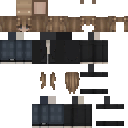
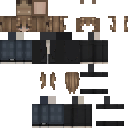
Head depth via cut-outs in the hat layer and shadows on the base layer
Claude-Session: https://claude.ai/code/session_01E8KVnok6Fx7faRrVpDBB9K

diff --git a/minecraft-skin/make_skin.py b/minecraft-skin/make_skin.py
@@ -40,6 +40,8 @@ def fill_rows(g):                                   # replace non-hair / shadow-
         near = sorted((abs(i-ii), ii) for ii in range(w) if ok(g[ii, j]))
         out[i, j] = g[near[0][1], j] if near else (121, 95, 72)
     return out
+def dark(c, f): return tuple(int(v*f) for v in c)
+SHADOW = (50, 38, 32)                               # deep hair shadow seen through gaps in the outer layer
 def vsmooth(g, where):                              # vertical median filter -> long calm strands
     out = dict(g); h = max(j for _, j in g)+1
     for (i, j), c in g.items():
@@ -83,20 +85,31 @@ def build(slim=True):
             c = face[i, j]
             if not is_hair(c) and (c[0] < 120 or c[0] - c[2] < 25): face[i, j] = face[i, 13]
     put(8, 8, face)                                                        # face + hair (base layer)
-    put(40, 8, face, keep=lambda i, j, c: lit(_hat8[i//2, j//2]))          # fringe and locks stand out on the hat layer
+    put(40, 8, face, keep=lambda i, j, c: lit(_hat8[i//2, j//2]) and j > 0)  # fringe and locks stand out on the hat layer
     bk = fill_rows(back(262, 374, 694, 806, 16, 16)); bk8 = back(262, 374, 694, 806, 8, 8)
     for (i, j) in list(bk):
         blk = bk8[i//2, j//2]
         if (j < 6 or i < 4 or i > 11) and is_hair(blk) and blk[0] >= 72: bk[i, j] = blk
     bk = vsmooth(bk, lambda i, j: j >= 6 and 4 <= i <= 11)
-    put(24, 8, bk)
-    put(56, 8, bk, keep=lambda i, j, c: (j < 6 or i < 4 or i > 11) and not (j == 0 and 4 <= i <= 11))
+    outer = lambda i, j: (i < 4 or i > 11) and not (i in (0, 15) and 6 <= j <= 10)   # only the two side locks are raised
+    put(24, 8, bk, fn=lambda i, j, c: SHADOW if (i in (0, 15) and 6 <= j <= 10) else dark(c, .72) if i in (4, 11) else c)
+    put(56, 8, bk, keep=lambda i, j, c: outer(i, j))
     side = fill_rows(quad(QH, (112, 925), (345, 958), (345, 1425), (115, 1398), 16, 16))
     side = vsmooth(side, lambda i, j: i < 12)                              # calm vertical strands
     for (i, j) in list(side):                                              # the curls next to the face are blocks
         if i >= 12: side[i, j] = side[12 + 2*((i-12)//2), 2*(j//2)]
-    ear = lambda i, j, c: j > 0 or i < 4                                   # top edge stays only where the ear is (back)
-    put(0, 8, side); put(32, 8, side, keep=ear); put(16, 8, side, flip=True); put(48, 8, side, keep=ear, flip=True)
+    def side_hat(i, j, c):                                                 # i = 0 at the back, 15 next to the face
+        if i < 4 and j < 2: return True                                    # wall of the tuft
+        if i >= 12 and j >= 2: return True                                 # curls next to the face
+        if i < 2 and 9 <= j <= 13: return True                             # loose strand at the back
+        return False
+    def side_base(i, j, c):
+        if i < 2 and 6 <= j <= 8: return SHADOW                            # notch at the temple
+        if i == 11 and j >= 2: return dark(c, .72)                         # shadow behind the curls
+        if j < 2 and i >= 4: return dark(c, .8)
+        return c
+    put(0, 8, side, fn=side_base); put(32, 8, side, keep=side_hat)
+    put(16, 8, side, flip=True, fn=side_base); put(48, 8, side, keep=side_hat, flip=True)
     top = quad(QH, (112, 925), (570, 895), (810, 925), (345, 958), 16, 16)
     med = sorted(c for c in top.values() if is_hair(c) and c[0] >= 90); med = med[len(med)//2]
     top = {(i, j): (c if (is_hair(c) or c[0] > 150) and c[0] >= 80 and c[0] > c[2]+10 else med) for (i, j), c in top.items()}
@@ -107,7 +120,12 @@ def build(slim=True):
     for i in (2, 3, 12, 13):                                               # the two small highlights near the front
         for j in (11, 12): top[i, j] = (200, 180, 155)
     isear = lambda i, j: i//2 in (0, 1, 6, 7) and j//2 in (0, 1)
-    put(8, 0, top, fn=lambda i, j, c: med if isear(i, j) else c)
+    def top_base(i, j, c):
+        if isear(i, j): return SHADOW                                      # under the tufts
+        if (i in (4, 5, 10, 11) and j < 4) or (j in (4, 5) and (i < 4 or i > 11)): return dark(c, .55)   # their shadow
+        if i in (0, 15) or j in (0, 15): return dark(c, .7)
+        return dark(c, .86)
+    put(8, 0, top, fn=top_base)
     earc = quad(QH, (150, 885), (160, 885), (160, 892), (150, 892), 1, 1)[0, 0]
     put(40, 0, top, keep=lambda i, j, c: isear(i, j),                      # ears: caps on the back corners, closed by the hair walls
         fn=lambda i, j, c: earc)
